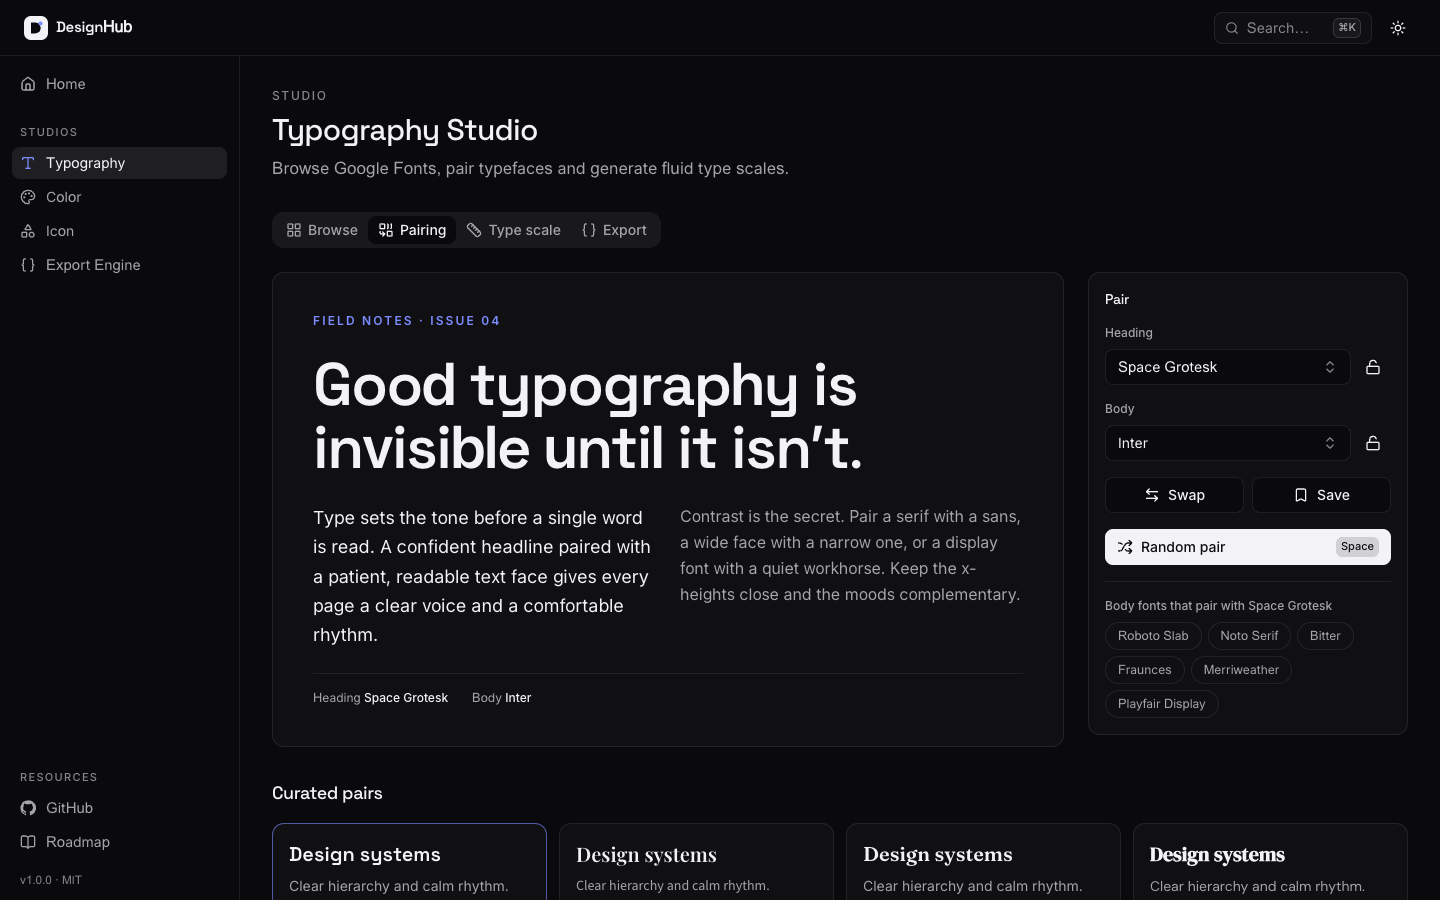
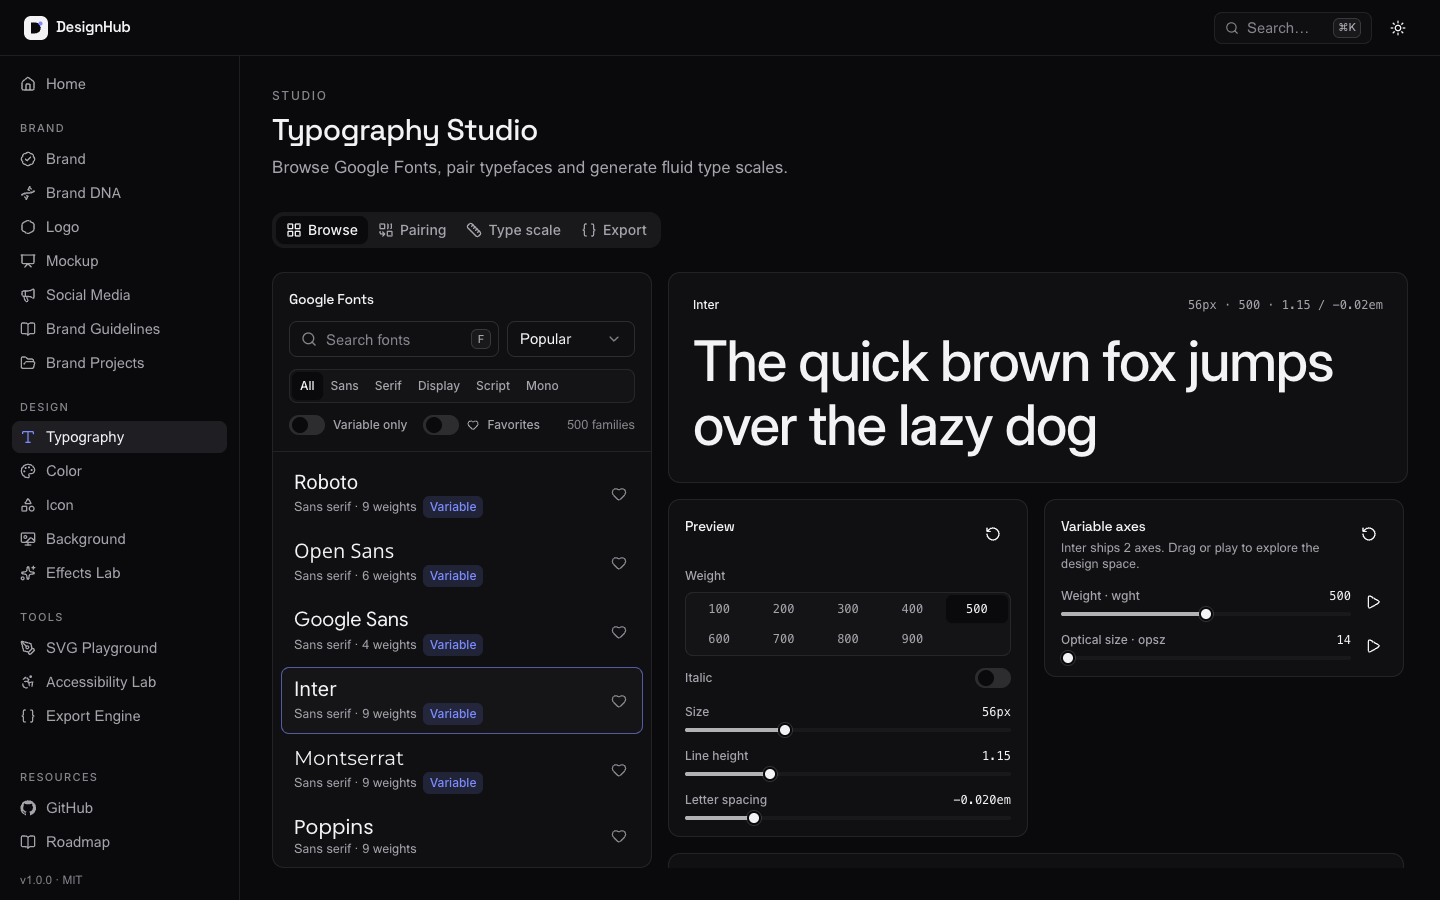
feat: redesign typography browse layout

diff --git a/components/typography/font-browser.tsx b/components/typography/font-browser.tsx
@@ -1,7 +1,7 @@
 "use client";
 
 import { SearchX } from "lucide-react";
-import { useMemo, useState } from "react";
+import { useEffect, useMemo, useRef, useState } from "react";
 
 import { FontCard } from "@/components/typography/font-card";
 import { FontFilters } from "@/components/typography/font-filters";
@@ -9,18 +9,21 @@ import { RecentFonts } from "@/components/typography/recent-fonts";
 import { Button } from "@/components/ui/button";
 import { useSelectFont } from "@/hooks/use-select-font";
 import { filterFonts } from "@/lib/typography/filter";
+import { cn } from "@/lib/utils";
 import { useLibraryStore } from "@/store/library-store";
 import { useTypographyStore } from "@/store/typography-store";
 import type { FontFamily } from "@/types/typography";
 
-const PAGE_SIZE = 48;
+const PAGE_SIZE = 40;
 
 type FontBrowserProps = {
   fonts: FontFamily[];
   loading: boolean;
+  className?: string;
 };
 
-export function FontBrowser({ fonts, loading }: FontBrowserProps) {
+/** Search and filters on top, a scrolling list below that loads more as you reach the end. */
+export function FontBrowser({ fonts, loading, className }: FontBrowserProps) {
   const activeFont = useTypographyStore((state) => state.activeFont);
   const filters = useTypographyStore((state) => state.filters);
   const resetFilters = useTypographyStore((state) => state.resetFilters);
@@ -28,45 +31,75 @@ export function FontBrowser({ fonts, loading }: FontBrowserProps) {
   const selectFont = useSelectFont();
   const [visible, setVisible] = useState(PAGE_SIZE);
   const results = useMemo(() => filterFonts(fonts, filters, favorites), [fonts, filters, favorites]);
+  const listRef = useRef<HTMLDivElement>(null);
+  const sentinelRef = useRef<HTMLDivElement>(null);
+
+  // New filters start back at the top of the list.
+  useEffect(() => {
+    setVisible(PAGE_SIZE);
+    listRef.current?.scrollTo({ top: 0 });
+  }, [filters]);
+
+  const hasMore = results.length > visible;
+  useEffect(() => {
+    const node = sentinelRef.current;
+    if (!node || !hasMore) return;
+    const observer = new IntersectionObserver(
+      (entries) => {
+        if (entries.some((entry) => entry.isIntersecting)) setVisible((count) => count + PAGE_SIZE);
+      },
+      { root: listRef.current, rootMargin: "400px" },
+    );
+    observer.observe(node);
+    return () => observer.disconnect();
+  }, [hasMore, visible]);
 
   const shown = results.slice(0, visible);
 
   return (
-    <div className="flex flex-col gap-4">
-      <FontFilters resultCount={results.length} />
-      <RecentFonts />
-      {loading ? (
-        <ul
-          className="grid grid-cols-2 gap-3 sm:grid-cols-3 xl:grid-cols-4"
-          aria-busy="true"
-          aria-label="Loading fonts"
-        >
-          {Array.from({ length: 12 }, (_, index) => (
-            <li key={index} className="h-[142px] animate-pulse rounded-lg border bg-muted/40" />
+    <section
+      aria-labelledby="google-fonts-title"
+      className={cn("relative flex min-h-0 flex-col overflow-hidden rounded-lg border bg-card", className)}
+    >
+      <div className="flex flex-col gap-3 border-b p-4">
+        <h2 id="google-fonts-title" className="text-sm font-medium">
+          Google Fonts
+        </h2>
+        <FontFilters resultCount={results.length} />
+        <RecentFonts />
+      </div>
+      <div ref={listRef} className="min-h-0 flex-1 overflow-y-auto p-2 scrollbar-thin">
+        {loading ? (
+          <ul className="flex flex-col gap-1" aria-busy="true" aria-label="Loading fonts">
+            {Array.from({ length: 10 }, (_, index) => (
+              <li key={index} className="h-[54px] animate-pulse rounded-md bg-muted/40" />
+            ))}
+          </ul>
+        ) : null}
+        {!loading && results.length === 0 ? (
+          <div className="flex flex-col items-center gap-3 py-16 text-center">
+            <SearchX className="size-6 text-subtle-foreground" aria-hidden />
+            <p className="text-sm text-muted-foreground">No fonts match these filters.</p>
+            <Button variant="outline" size="sm" onClick={resetFilters}>
+              Reset filters
+            </Button>
+          </div>
+        ) : null}
+        <ul className="flex flex-col gap-0.5" aria-label="Fonts">
+          {shown.map((font) => (
+            <li key={font.family} className="flex">
+              <FontCard font={font} active={font.family === activeFont} onSelect={selectFont} />
+            </li>
           ))}
         </ul>
-      ) : null}
-      {!loading && results.length === 0 ? (
-        <div className="flex flex-col items-center gap-3 rounded-lg border border-dashed py-16 text-center">
-          <SearchX className="size-6 text-subtle-foreground" aria-hidden />
-          <p className="text-sm text-muted-foreground">No fonts match these filters.</p>
-          <Button variant="outline" size="sm" onClick={resetFilters}>
-            Reset filters
-          </Button>
-        </div>
-      ) : null}
-      <ul className="grid grid-cols-2 gap-3 sm:grid-cols-3 xl:grid-cols-4">
-        {shown.map((font) => (
-          <li key={font.family} className="flex">
-            <FontCard font={font} active={font.family === activeFont} onSelect={selectFont} />
-          </li>
-        ))}
-      </ul>
-      {results.length > visible ? (
-        <Button variant="outline" className="self-center" onClick={() => setVisible((count) => count + PAGE_SIZE)}>
-          Show more · {results.length - visible} remaining
-        </Button>
-      ) : null}
-    </div>
+        {hasMore ? (
+          <div ref={sentinelRef} className="flex justify-center py-3">
+            <Button variant="ghost" size="sm" onClick={() => setVisible((count) => count + PAGE_SIZE)}>
+              Show more · {results.length - visible} remaining
+            </Button>
+          </div>
+        ) : null}
+      </div>
+    </section>
   );
 }

diff --git a/components/typography/font-filters.tsx b/components/typography/font-filters.tsx
@@ -15,8 +15,17 @@ import type { FontSort } from "@/lib/typography/filter";
 import { useTypographyStore } from "@/store/typography-store";
 import type { FontCategory } from "@/types/typography";
 
+/** Short labels so every category fits on one line in the narrow font pane. */
+const shortLabels: Record<FontCategory, string> = {
+  "sans-serif": "Sans",
+  serif: "Serif",
+  display: "Display",
+  handwriting: "Script",
+  monospace: "Mono",
+};
+
 const sorts: { value: FontSort; label: string }[] = [
-  { value: "popular", label: "Most popular" },
+  { value: "popular", label: "Popular" },
   { value: "alphabetical", label: "A → Z" },
   { value: "weights", label: "Most weights" },
 ];
@@ -29,8 +38,8 @@ export function FontFilters({ resultCount }: { resultCount: number }) {
 
   return (
     <div className="flex flex-col gap-3">
-      <div className="flex flex-col gap-3 md:flex-row md:items-center">
-        <div className="relative flex-1">
+      <div className="flex items-center gap-2">
+        <div className="relative min-w-0 flex-1">
           <Search
             className="pointer-events-none absolute top-1/2 left-3 size-4 -translate-y-1/2 text-subtle-foreground"
             aria-hidden
@@ -46,7 +55,7 @@ export function FontFilters({ resultCount }: { resultCount: number }) {
                 event.currentTarget.blur();
               }
             }}
-            placeholder="Search 500 Google Fonts…"
+            placeholder="Search fonts"
             aria-label="Search fonts"
             className="pr-16 pl-9 [&::-webkit-search-cancel-button]:hidden"
           />
@@ -64,7 +73,7 @@ export function FontFilters({ resultCount }: { resultCount: number }) {
           )}
         </div>
         <Select value={filters.sort} onValueChange={(value) => setFilters({ sort: value as FontSort })}>
-          <SelectTrigger className="md:w-44" aria-label="Sort fonts">
+          <SelectTrigger className="w-32 shrink-0" aria-label="Sort fonts">
             <SelectValue />
           </SelectTrigger>
           <SelectContent>
@@ -82,12 +91,12 @@ export function FontFilters({ resultCount }: { resultCount: number }) {
           value={filters.category}
           onValueChange={(value) => value && setFilters({ category: value as FontCategory | "all" })}
           aria-label="Category"
-          className="flex-wrap"
+          className="w-full"
         >
           <ToggleGroupItem value="all">All</ToggleGroupItem>
           {fontCategories.map((category) => (
-            <ToggleGroupItem key={category} value={category}>
-              {fontCategoryLabels[category]}
+            <ToggleGroupItem key={category} value={category} aria-label={fontCategoryLabels[category]}>
+              {shortLabels[category]}
             </ToggleGroupItem>
           ))}
         </ToggleGroup>
@@ -109,7 +118,7 @@ export function FontFilters({ resultCount }: { resultCount: number }) {
             <Heart className="size-3" aria-hidden /> Favorites
           </Label>
         </div>
-        <p className="text-xs text-subtle-foreground md:ml-auto" aria-live="polite">
+        <p className="ml-auto text-xs text-subtle-foreground" aria-live="polite">
           {resultCount} {resultCount === 1 ? "family" : "families"}
         </p>
       </div>

diff --git a/components/typography/font-card.tsx b/components/typography/font-card.tsx
@@ -17,14 +17,13 @@ type FontCardProps = {
   onSelect: (family: string) => void;
 };
 
-const PREVIEW = "Aa";
-
+/** One row in the font list: the family name set in its own typeface, plus its details. */
 export const FontCard = memo(function FontCard({ font, active, onSelect }: FontCardProps) {
   const { ref, inView } = useInView<HTMLButtonElement>();
 
   useEffect(() => {
     // Only the glyphs we render are downloaded, so hundreds of previews stay cheap.
-    if (inView) injectStylesheet(googleFontsCssUrl(font, { text: `${PREVIEW}${font.family}`, weight: 400 }));
+    if (inView) injectStylesheet(googleFontsCssUrl(font, { text: `Aa${font.family}`, weight: 400 }));
   }, [inView, font]);
 
   return (
@@ -35,29 +34,19 @@ export const FontCard = memo(function FontCard({ font, active, onSelect }: FontC
         onClick={() => onSelect(font.family)}
         aria-pressed={active}
         className={cn(
-          "group flex w-full flex-col gap-4 rounded-lg border bg-card p-4 text-left transition-[border-color,background-color] duration-150 hover:border-border-strong hover:bg-surface-raised",
+          "flex w-full min-w-0 flex-col gap-0.5 rounded-md border border-transparent py-2 pr-11 pl-3 text-left transition-[border-color,background-color] duration-150 hover:bg-surface-raised",
           active && "border-brand/60 bg-surface-raised",
         )}
       >
-        <span
-          aria-hidden
-          className="text-5xl leading-none"
-          style={{ fontFamily: fontStack(font.family, font.category) }}
-        >
-          {PREVIEW}
+        <span className="truncate text-xl leading-tight" style={{ fontFamily: fontStack(font.family, font.category) }}>
+          {font.family}
         </span>
-        <span className="flex min-w-0 flex-col gap-1">
-          <span className="truncate text-sm font-medium" style={{ fontFamily: fontStack(font.family, font.category) }}>
-            {font.family}
-          </span>
-          <span className="flex flex-wrap items-center gap-1.5 text-xs text-muted-foreground">
-            {fontCategoryLabels[font.category]} · {font.weights.length}{" "}
-            {font.weights.length === 1 ? "style" : "weights"}
-            {isVariableFont(font) ? <Badge variant="brand">Variable</Badge> : null}
-          </span>
+        <span className="flex flex-wrap items-center gap-1.5 text-xs text-muted-foreground">
+          {fontCategoryLabels[font.category]} · {font.weights.length} {font.weights.length === 1 ? "style" : "weights"}
+          {isVariableFont(font) ? <Badge variant="brand">Variable</Badge> : null}
         </span>
       </button>
-      <FavoriteFontButton family={font.family} className="absolute top-2 right-2" />
+      <FavoriteFontButton family={font.family} className="absolute top-1/2 right-2 -translate-y-1/2" />
     </div>
   );
 });

diff --git a/components/typography/typography-workspace.tsx b/components/typography/typography-workspace.tsx
@@ -57,22 +57,28 @@ export function TypographyWorkspace() {
         ))}
       </TabsList>
 
-      <TabsContent value="browse" className="flex flex-col gap-8">
-        <div className="grid items-start gap-6 lg:grid-cols-[minmax(0,1fr)_320px]">
-          <SpecimenPreview />
-          <div className="flex flex-col gap-4">
+      {/*
+        Desktop: fonts on the left, the specimen pinned top right and its controls scrolling below it,
+        all within one screen. Mobile: specimen, then a scrollable font list, then controls.
+      */}
+      <TabsContent
+        value="browse"
+        className="grid gap-4 lg:h-[calc(100dvh-19rem)] lg:flex-none lg:min-h-[560px] lg:grid-cols-[minmax(300px,380px)_minmax(0,1fr)] lg:grid-rows-[auto_minmax(0,1fr)]"
+      >
+        <SpecimenPreview className="lg:col-start-2 lg:row-start-1" />
+        <FontBrowser
+          fonts={fonts}
+          loading={loading}
+          className="max-lg:h-[70dvh] lg:col-start-1 lg:row-span-2 lg:row-start-1"
+        />
+        <div className="relative flex min-h-0 flex-col gap-4 lg:col-start-2 lg:row-start-2 lg:overflow-y-auto lg:pr-1 scrollbar-thin">
+          <div className="grid items-start gap-4 xl:grid-cols-2">
             <SpecimenControls />
             <VariablePlayground />
           </div>
-        </div>
-        <div className="grid items-start gap-6 lg:grid-cols-[minmax(0,1fr)_320px]">
           <OpenTypeControls />
           <FontInspector />
         </div>
-        <section aria-label="Google Fonts" className="flex flex-col gap-4">
-          <h2 className="text-lg font-medium">Google Fonts</h2>
-          <FontBrowser fonts={fonts} loading={loading} />
-        </section>
       </TabsContent>
       <TabsContent value="pair">
         <PairingStudio fonts={fonts} />

diff --git a/components/typography/specimen-preview.tsx b/components/typography/specimen-preview.tsx
@@ -29,7 +29,7 @@ export function SpecimenPreview({ className }: { className?: string }) {
   };
 
   return (
-    <div className={cn("flex min-h-64 flex-col gap-4 rounded-lg border bg-card p-6 md:p-8", className)}>
+    <div className={cn("flex min-h-44 flex-col gap-4 rounded-lg border bg-card p-6", className)}>
       <div className="flex items-center justify-between gap-4 text-xs text-muted-foreground">
         <span className="font-medium text-foreground">{activeFont}</span>
         <span className="font-mono tabular-nums">
@@ -47,7 +47,7 @@ export function SpecimenPreview({ className }: { className?: string }) {
         spellCheck={false}
         rows={3}
         style={style}
-        className="w-full flex-1 resize-none bg-transparent break-words outline-none [field-sizing:content]"
+        className="max-h-[40dvh] w-full flex-1 resize-none overflow-y-auto bg-transparent break-words outline-none scrollbar-thin [field-sizing:content]"
       />
     </div>
   );

diff --git a/CHANGELOG.md b/CHANGELOG.md
@@ -74,6 +74,7 @@ Released 2026-09-23. The first public release: a complete, local-first design an
 #### Typography Studio
 
 - Google Fonts browser with a bundled catalog of 500 families (generated by `pnpm fonts:catalog`).
+- One-screen browse layout: a scrolling font list (each name set in its own typeface, loading more as you scroll) beside a pinned specimen, with the controls scrolling underneath.
 - Search, category filters, variable-only and favorites filters, and three sort orders.
 - Favorite fonts and recent fonts.
 - Editable specimen with weight, italic, size, line height and letter spacing controls.
